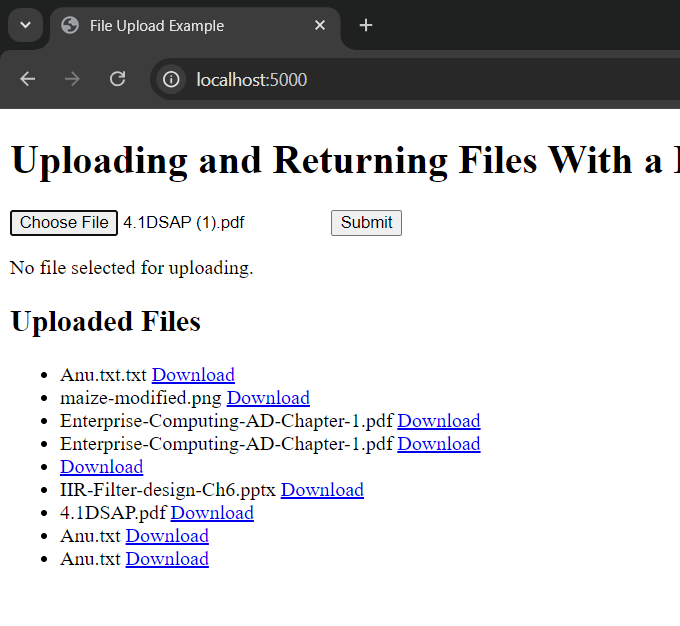
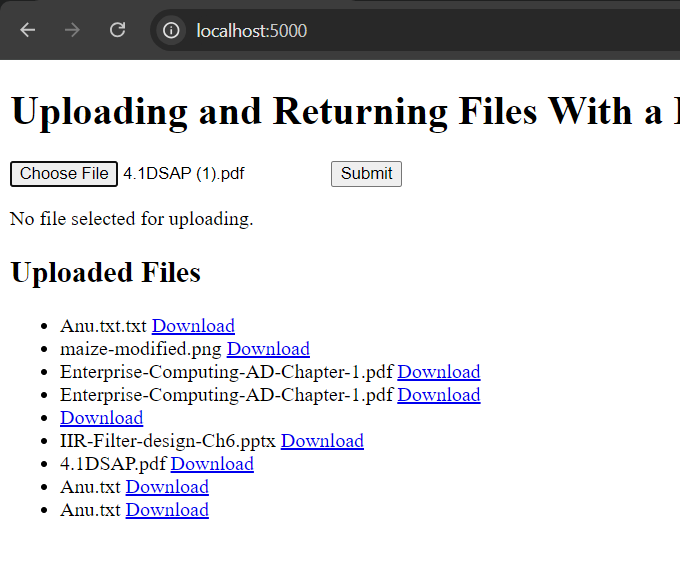
image resized -a

Changed region(s): [[0.0, 0.0, 1.0, 0.9359]]

diff --git a/fileUploadDownloadApp/templates/index.html b/fileUploadDownloadApp/templates/index.html
@@ -4,7 +4,7 @@
     <meta charset="UTF-8">
     <meta http-equiv="X-UA-Compatible" content="IE=edge">
     <meta name="viewport" content="width=device-width, initial-scale=1.0">
-    <title>File Upload Example</title>
+    <title>File Upload App</title>
     <link rel="stylesheet" href="{{ url_for('static', filename='styles.css') }}">
 </head>
 <body>
